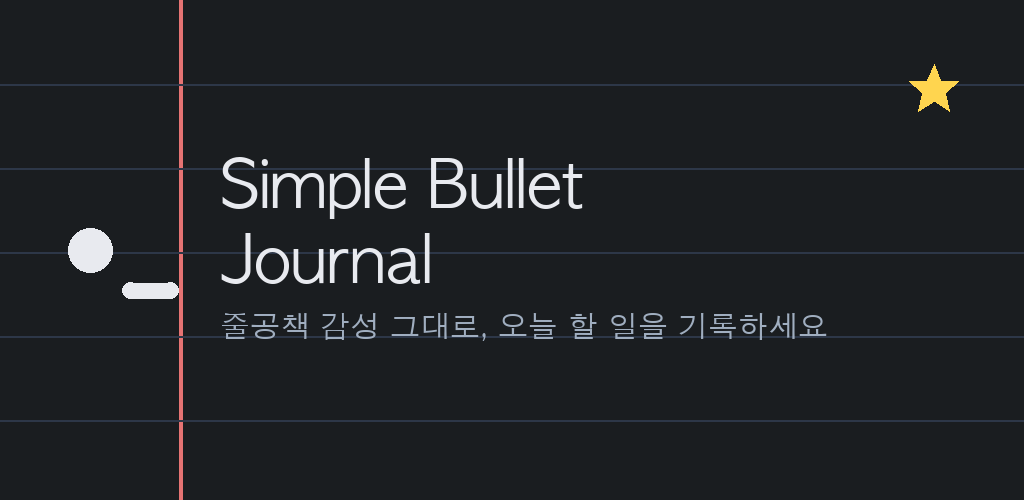
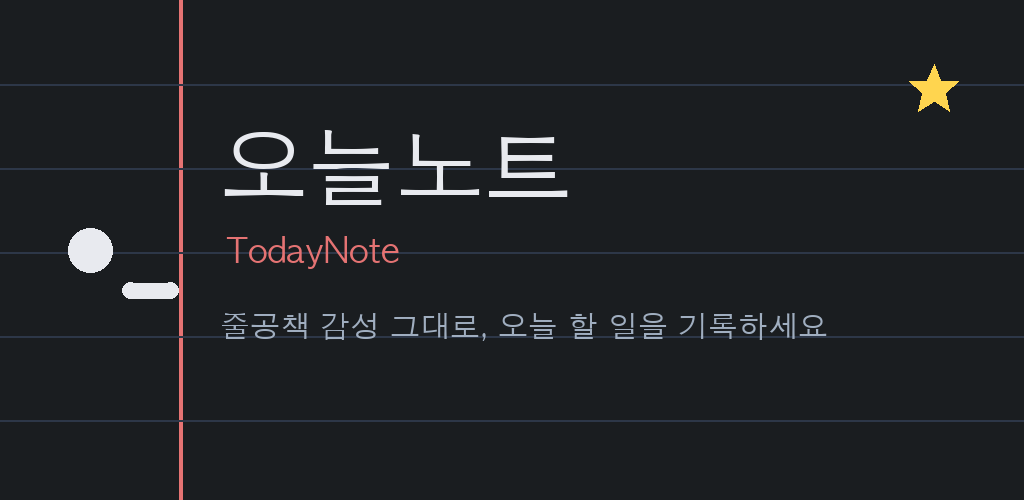
Rename app to 오늘노트 / TodayNote and change applicationId
"Bullet Journal" and "BuJo" are registered trademarks, and the app earns
money from ads and in-app purchases, so the name is removed everywhere
users can see it.

- applicationId com.simple.bulletjournal -> com.zeonerd.todaynote
  (source packages/namespace unchanged; internal only)
- Launcher label 오늘노트; values-en label TodayNote
- Backup files: todaynote-backup-<date>.json, app id "todaynote";
  legacy "simple-bullet-journal" backups still restore (+2 tests)
- Feature graphic re-rendered with 오늘노트 / TodayNote
- Store listing copy, privacy policy app name, README, HANDOVER
  section 13 (naming decision, trademark rationale, what stays
  internal, data move from old package via backup/restore)
- Tests: 38/38. Device verification pending.

Changed region(s): [[0.2188, 0.24, 0.5625, 0.45], [0.2188, 0.45, 0.4375, 0.57]]

diff --git a/app/src/test/java/com/simple/bulletjournal/JournalBackupTest.kt b/app/src/test/java/com/simple/bulletjournal/JournalBackupTest.kt
@@ -46,7 +46,7 @@ class JournalBackupTest {
     @Test
     fun decode_missingOptionalFields_useDefaults() {
         val decoded = JournalBackup.decode(
-            """{"app":"simple-bullet-journal","formatVersion":1,"tasks":[{"date":"2026-09-27","content":"최소 필드"}]}"""
+            """{"app":"todaynote","formatVersion":1,"tasks":[{"date":"2026-09-27","content":"최소 필드"}]}"""
         )
         assertEquals(listOf(Task(date = "2026-09-27", content = "최소 필드", createdAt = 0L)), decoded.tasks)
         assertNull(decoded.exportedAt)
@@ -55,13 +55,25 @@ class JournalBackupTest {
     @Test
     fun decode_rejectsOtherApps_futureVersions_andBrokenFiles() {
         assertInvalid("""{"app":"other-app","formatVersion":1,"tasks":[]}""")
-        assertInvalid("""{"app":"simple-bullet-journal","formatVersion":99,"tasks":[]}""")
-        assertInvalid("""{"app":"simple-bullet-journal","tasks":[]}""")
-        assertInvalid("""{"app":"simple-bullet-journal","formatVersion":1}""")
-        assertInvalid("""{"app":"simple-bullet-journal","formatVersion":1,"tasks":[{"date":"2026-09-27"}]}""")
-        assertInvalid("""{"app":"simple-bullet-journal","formatVersion":1,"tasks":[{"date":"27/09/2026","content":"x"}]}""")
+        assertInvalid("""{"app":"todaynote","formatVersion":99,"tasks":[]}""")
+        assertInvalid("""{"app":"todaynote","tasks":[]}""")
+        assertInvalid("""{"app":"todaynote","formatVersion":1}""")
+        assertInvalid("""{"app":"todaynote","formatVersion":1,"tasks":[{"date":"2026-09-27"}]}""")
+        assertInvalid("""{"app":"todaynote","formatVersion":1,"tasks":[{"date":"27/09/2026","content":"x"}]}""")
         assertInvalid("not json at all")
         assertInvalid("")
+    }
+
+    @Test
+    fun decode_acceptsLegacyBackupsMadeBeforeRename() {
+        // 앱 이름 변경(불렛 저널 → 오늘노트) 전에 만든 백업 파일도 복원돼야 한다
+        val legacy = """{"app":"simple-bullet-journal","formatVersion":1,"tasks":[{"date":"2026-09-27","content":"옛 백업"}]}"""
+        assertEquals("옛 백업", JournalBackup.decode(legacy).tasks.single().content)
+    }
+
+    @Test
+    fun encode_writesNewAppId() {
+        assertTrue(JournalBackup.encode(emptyList(), exportedAt).contains("\"app\": \"todaynote\""))
     }
 
     @Test

diff --git a/app/src/main/java/com/simple/bulletjournal/data/JournalBackup.kt b/app/src/main/java/com/simple/bulletjournal/data/JournalBackup.kt
@@ -20,7 +20,7 @@ data class BackupContents(
  * 백업 파일(JSON) 형식 정의와 변환.
  *
  * ```
- * { "app": "simple-bullet-journal", "formatVersion": 1, "exportedAt": "2026-09-27T12:00:00Z",
+ * { "app": "todaynote", "formatVersion": 1, "exportedAt": "2026-09-27T12:00:00Z",
  *   "tasks": [ { "date": "2026-09-27", "content": "...", "isCompleted": false, "isPriority": false,
  *                "isMigrated": false, "orderIndex": 0, "createdAt": 1790000000000 } ] }
  * ```
@@ -28,7 +28,10 @@ data class BackupContents(
  * - Task에 필드가 추가되면 [FORMAT_VERSION]을 올리고, [decode]가 이전 버전 파일도 읽을 수 있게(새 필드는 기본값) 유지할 것.
  */
 object JournalBackup {
-    const val APP_ID = "simple-bullet-journal"
+    const val APP_ID = "todaynote"
+
+    // 앱 이름을 오늘노트로 바꾸기 전(2026-09-27 이전)에 만든 백업 파일의 식별자. 옛 백업도 계속 복원할 수 있어야 한다.
+    private const val LEGACY_APP_ID = "simple-bullet-journal"
     const val FORMAT_VERSION = 1
 
     private val dateFormatter = DateTimeFormatter.ofPattern("yyyy-MM-dd")
@@ -62,7 +65,7 @@ object JournalBackup {
     fun decode(json: String): BackupContents {
         try {
             val root = JSONObject(json)
-            if (root.optString("app") != APP_ID) {
+            if (root.optString("app") !in setOf(APP_ID, LEGACY_APP_ID)) {
                 throw InvalidBackupException("이 앱의 백업 파일이 아닙니다")
             }
             val version = root.optInt("formatVersion", -1)

diff --git a/docs/privacy-policy.html b/docs/privacy-policy.html
@@ -3,7 +3,7 @@
 <head>
 <meta charset="utf-8">
 <meta name="viewport" content="width=device-width, initial-scale=1">
-<title>개인정보처리방침 - Simple Bullet Journal</title>
+<title>개인정보처리방침 - 오늘노트 (TodayNote)</title>
 <style>
   :root { color-scheme: light dark; }
   body {
@@ -51,9 +51,9 @@
 <body>
 <main>
 <h1>개인정보처리방침</h1>
-<p class="meta">Simple Bullet Journal · 최종 수정일: 2026-09-27</p>
+<p class="meta">오늘노트 (TodayNote) · 최종 수정일: 2026-09-27</p>
 
-<p>Simple Bullet Journal("본 앱")은 개인 정보 보호를 중요하게 생각합니다. 본 방침은 본 앱이 어떤 정보를 수집·이용·저장하는지 설명합니다.</p>
+<p>오늘노트(TodayNote, 이하 "본 앱")은 개인 정보 보호를 중요하게 생각합니다. 본 방침은 본 앱이 어떤 정보를 수집·이용·저장하는지 설명합니다.</p>
 
 <h2>1. 앱이 직접 수집하는 정보</h2>
 <p>본 앱은 <strong>회원가입이나 로그인 절차가 없습니다.</strong> 사용자가 작성하는 할 일(태스크) 내용, 완료 여부, 중요도, 날짜, 테마 설정, 광고 제거 구매 상태는 모두 <strong>사용자의 기기 내부(로컬 데이터베이스)</strong>에만 저장되며, 개발자나 제3자 서버로 전송되지 않습니다. 앱을 삭제하면 기기 안의 데이터는 함께 삭제됩니다(백업은 5절 참고).</p>

diff --git a/app/src/main/java/com/simple/bulletjournal/ui/SettingsScreen.kt b/app/src/main/java/com/simple/bulletjournal/ui/SettingsScreen.kt
@@ -143,7 +143,7 @@ fun SettingsScreen(
             SettingsActionRow(
                 title = "백업 파일 만들기",
                 description = "모든 할 일 기록을 파일로 저장합니다",
-                onClick = { exportLauncher.launch("bullet-journal-backup-${LocalDate.now()}.json") }
+                onClick = { exportLauncher.launch("todaynote-backup-${LocalDate.now()}.json") }
             )
             SettingsActionRow(
                 title = "백업에서 복원",

diff --git a/store_assets/scripts/render_banner.py b/store_assets/scripts/render_banner.py
@@ -48,11 +48,13 @@ def load_font(size, bold=False):
             continue
     return ImageFont.load_default()
 
-title_font = load_font(64, bold=True)
+title_font = load_font(88, bold=True)
+brand_en_font = load_font(34)
 subtitle_font = load_font(30)
 
-draw.text((margin_x + 40, 150), "Simple Bullet", font=title_font, fill=NOTE_TEXT)
-draw.text((margin_x + 40, 225), "Journal", font=title_font, fill=NOTE_TEXT)
+# 앱 이름: 오늘노트 / TodayNote (2026-09-27 "Simple Bullet Journal"에서 변경 — 상표 문제, HANDOVER 13절)
+draw.text((margin_x + 40, 120), "오늘노트", font=title_font, fill=NOTE_TEXT)
+draw.text((margin_x + 46, 232), "TodayNote", font=brand_en_font, fill=MARGIN_LINE)
 draw.text((margin_x + 40, 310), "줄공책 감성 그대로, 오늘 할 일을 기록하세요", font=subtitle_font, fill=(160, 174, 192))
 
 # A small star accent (priority marker) near title

diff --git a/README.md b/README.md
@@ -1,13 +1,16 @@
-# Simple Bullet Journal (간편 불렛 저널) 📓
+# 오늘노트 (TodayNote) 📓
 
-> **아날로그 줄공책의 감성과 불렛 저널(Bullet Journal)의 핵심 철학을 담은 안드로이드 다이어리 앱**
+> 2026-09-27 앱 이름 변경: 구 "Simple Bullet Journal / 불렛 저널" → **오늘노트 / TodayNote**, 패키지 ID `com.zeonerd.todaynote`. "Bullet Journal®"은 등록 상표라 사용하지 않습니다([HANDOVER.md](HANDOVER.md) 13절). 저장소 이름·소스 패키지(`com.simple.bulletjournal`)는 내부용이라 그대로입니다.
+
+> **아날로그 줄공책의 감성으로, 점(•)으로 빠르게 적고 못다 한 일은 이어가는 안드로이드 할 일 공책 앱**
 
 ---
 
 ## 📖 프로젝트 개요
-**Simple Bullet Journal**은 복잡한 다이어리 앱 대신, 실제 **줄공책(Lined Notebook)**에 만년필로 기록하듯 간결하고 직관적으로 일정을 관리할 수 있도록 설계된 개인 생산성 앱입니다.
+**오늘노트**는 복잡한 다이어리 앱 대신, 실제 **줄공책(Lined Notebook)**에 만년필로 기록하듯 간결하고 직관적으로 일정을 관리할 수 있도록 설계된 개인 생산성 앱입니다.
 
 - **버전**: v1.0.0 (versionCode 2) — 첫 공개 출시 버전
+- **패키지 ID(applicationId)**: `com.zeonerd.todaynote` (첫 업로드 후 변경 불가)
 - **최소 SDK**: Android 8.0 (API 26)
 - **타겟 SDK**: Android 16 (API 36)
 - **개발 언어**: Kotlin 2.2.10
@@ -20,9 +23,9 @@
 1. **빈티지 줄공책 & 다크 칠판 감성 UI**
    - 만년필 질감의 텍스트, 빨간색 여백 마진 라인, 하늘색 가로 공책 줄 배경
    - OS 시스템 다크 모드 연동: 어두운 환경에서는 눈이 편안한 **빈티지 다크 칠판(Chalkboard) 테마**로 자동 전환
-   - 칠판 감성을 살린 세련된 Adaptive Icon(분필로 그린 불렛과 언더바) 적용
+   - 칠판 감성을 살린 세련된 Adaptive Icon(분필로 그린 점과 언더바) 적용
 
-2. **불렛 저널 핵심 이월(`>`) 시스템 (가져오기)**
+2. **이월(`>`) 시스템 (가져오기)** — 못다 한 일을 다음 날로 이어가기
    - 오늘 페이지: 지난 날짜에 완료하지 못한 할 일을 **며칠이 지났든 모두** 감지해 상단 배너에 안내 (여러 날에 걸쳐 쌓였으면 "9월 20일부터"처럼 시작일 표시)
    - 원클릭으로 오늘 날짜 할 일 목록에 그대로 가져오기(Migration) 처리 — 원래 날짜·순서 유지
    - 내일 페이지: 오늘 남은 할 일을 내일로 미리 옮기기
